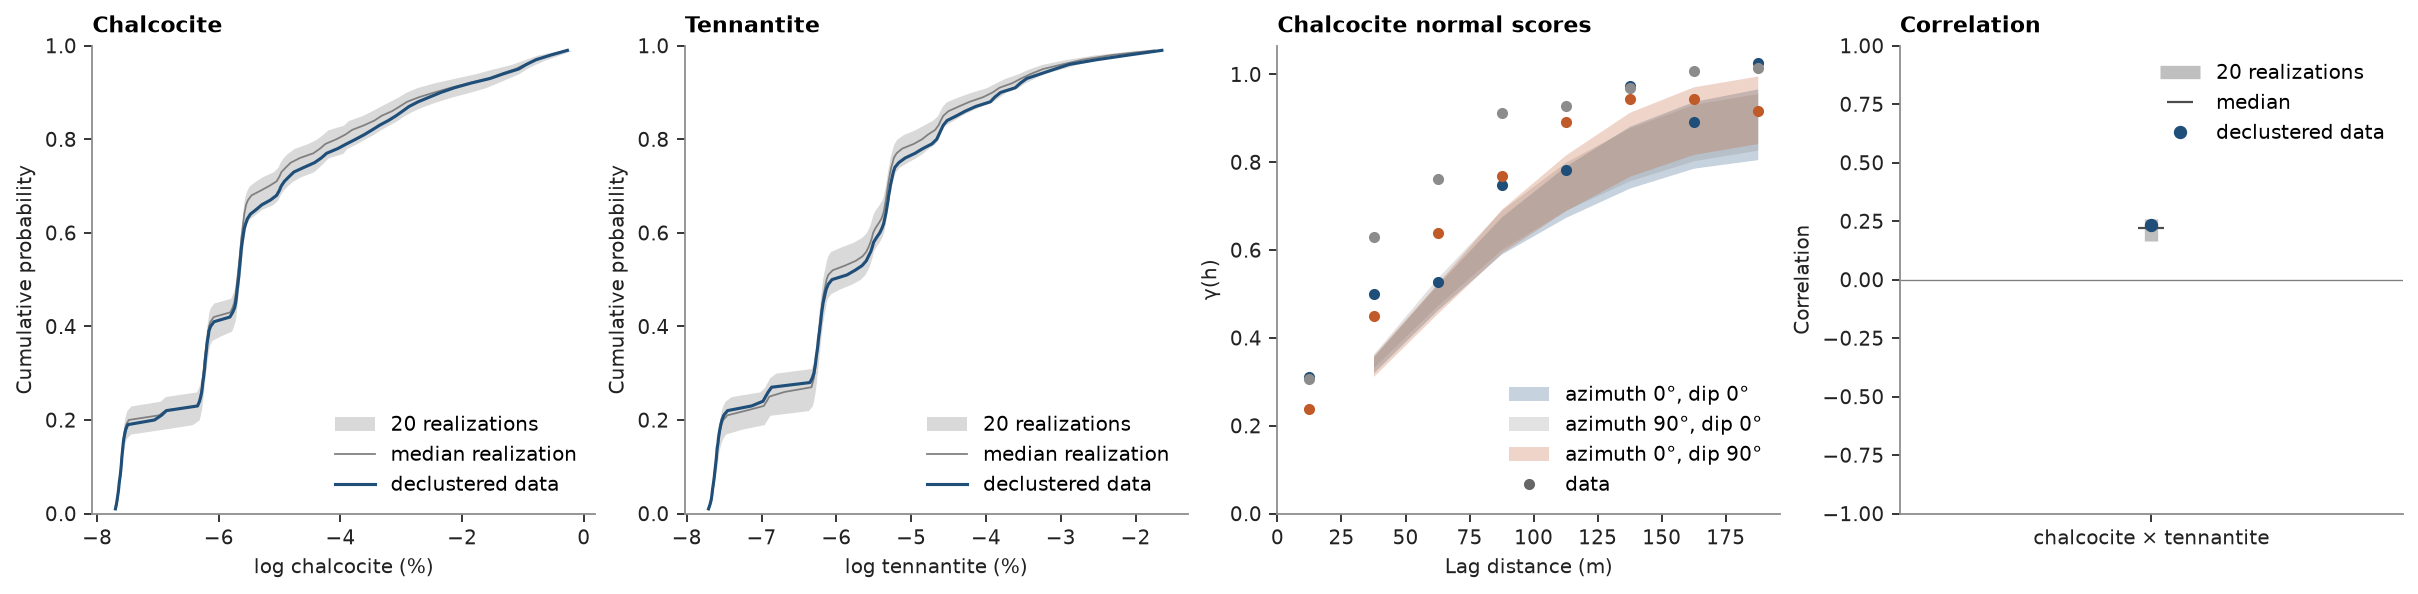
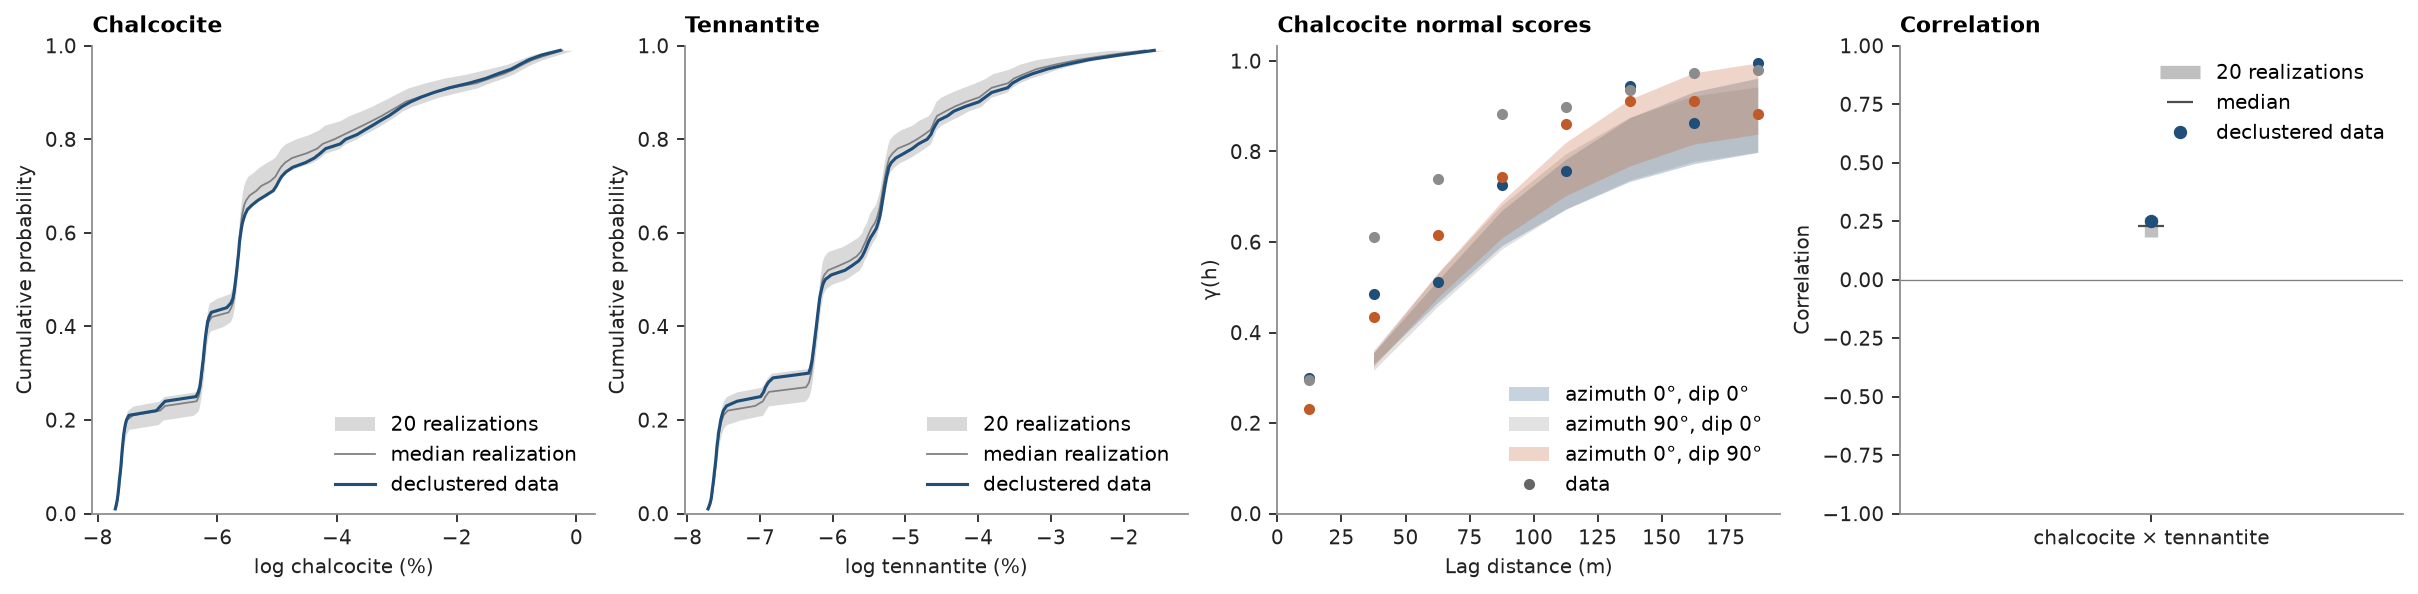
docs(examples): re-render realization checks after rebase

diff --git a/examples/topics/70-realization-checks/README.md b/examples/topics/70-realization-checks/README.md
@@ -64,10 +64,10 @@ for name in ["mean", "std", "P50", "P90"]:
 </details>
 
 ```text
-mean  data    293   realizations    282 to    320
-std   data    259   realizations    260 to    281
-P50   data    236   realizations    209 to    272
-P90   data    646   realizations    627 to    699
+mean  data    291   realizations    284 to    322
+std   data    255   realizations    259 to    280
+P50   data    235   realizations    222 to    271
+P90   data    636   realizations    621 to    699
 ```
 
 The realizations' distributions straddle the declustered data's in grades and in normal scores, save the step at
@@ -130,7 +130,7 @@ print(
 </details>
 
 ```text
-32,130 nodes; correlation data 0.23, realizations 0.16 to 0.26
+32,130 nodes; correlation data 0.25, realizations 0.18 to 0.27
 ```
 
 Both declustered histograms and the correlation are reproduced; the variograms are not. The factors were simulated
